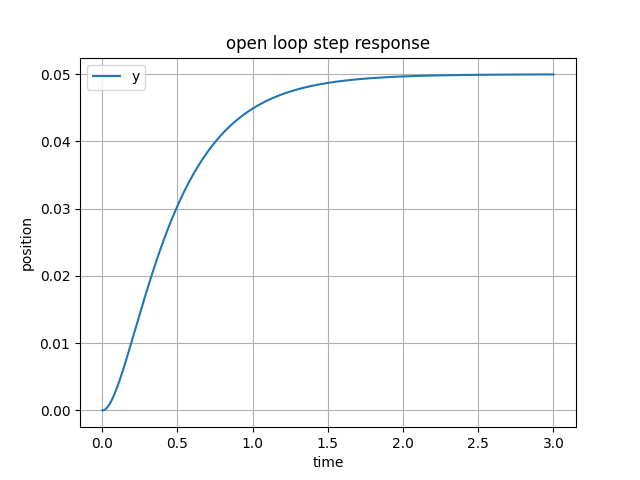
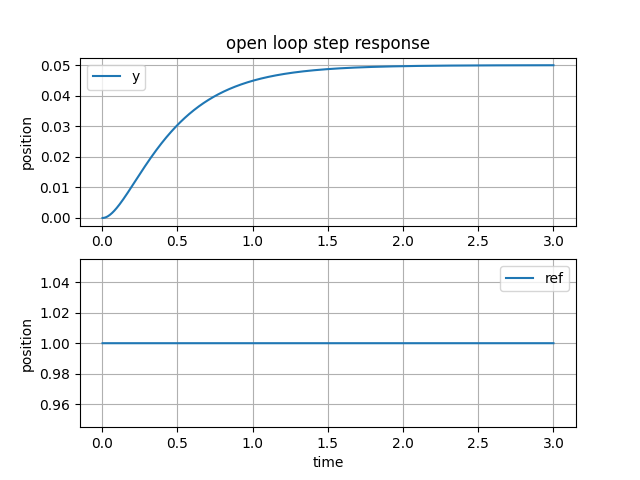
update

diff --git a/main.py b/main.py
@@ -33,11 +33,17 @@ if __name__ == '__main__':
         t, yout = control.step_response(P, TIME)
         # print(f'yout: {np.shape(yout)}')
         plt.figure()
+        plt.subplot(2, 1, 1)
         plt.plot(t, yout, label='y')
         plt.legend()
         plt.ylabel('position')
-        plt.xlabel('time')
         plt.title('open loop step response')
+        plt.grid()
+        plt.subplot(2, 1, 2)
+        plt.plot(t, REFERENCE, label='ref')
+        plt.legend()
+        plt.ylabel('position')
+        plt.xlabel('time')
         plt.grid()
         plt.savefig('pics/open loop step response.png')
         plt.show()
